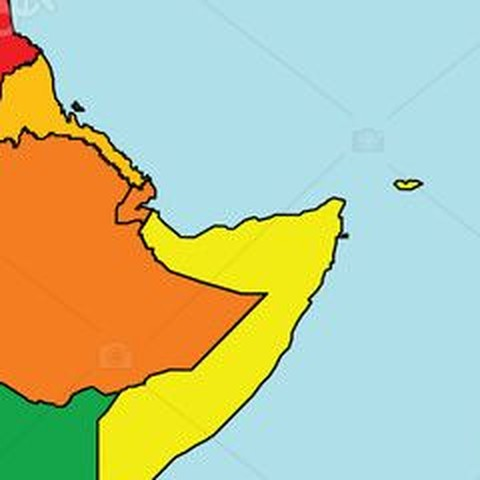
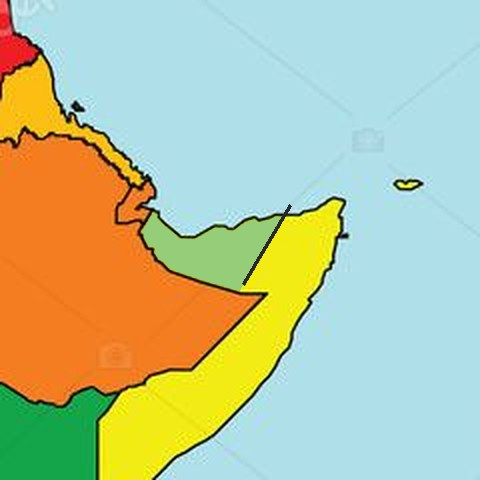
v2.1: trauma kit 10 named stations; Somaliland shaded with its own border (Captain 2026-10-13)
Stations: the Captain's five (injection drugs, wound care/bandage, plaster/splint,
oral tablets, normal saline IV bag) + tourniquet, haemostatic gauze, chest seal
(slide 38 list) + IV cannula & giving set (talk 1:03) + gloves & trauma shears.
Horn inset: Somaliland recoloured in the map crop, border line drawn; "7" along the coast.

Claude-Session: https://claude.ai/code/session_01BVrHPQ8u84GinArq4jj86T

Changed region(s): [[0.2812, 0.4375, 0.5938, 0.625]]

diff --git a/main.tex b/main.tex
@@ -164,18 +164,16 @@
 \begin{tikzpicture}
 \node[anchor=south west,inner sep=0,draw=gray!60] (h) at (0,0) {\includegraphics[width=4.6cm]{map_horn_crop.jpg}};
 \begin{scope}[x={(h.south east)},y={(h.north west)}]
-  \fill[blue!70,opacity=0.30] (0.31,0.533) -- (0.60,0.566) -- (0.553,0.385) -- (0.31,0.507) -- cycle;
-  \draw[red,line width=4pt,opacity=0.40,line cap=round,line join=round] (0.31,0.575) -- (0.70,0.595) -- (0.29,0.04);
-  \node[font=\fontsize{36}{36}\selectfont\bfseries,text=red,opacity=0.35] at (0.74,0.33) {7};
+  \draw[red,line width=3pt,opacity=0.35,line cap=round,line join=round] (0.31,0.53) -- (0.68,0.555) -- (0.60,0.375) -- (0.48,0.19) -- (0.37,0.02);
+  \node[font=\fontsize{36}{36}\selectfont\bfseries,text=red,opacity=0.35] at (0.82,0.33) {7};
   \draw[-{Stealth[length=2mm]},thick,blue!60!black] (0.55,0.49) -- (0.41,0.505);
   \fill[black] (0.371,0.49) circle (1.6pt);
   \node[font=\tiny\bfseries,anchor=north] at (0.371,0.475) {Hargeisa};
-  \node[pinlabel,text=blue!50!black] at (0.46,0.68) {Somaliland};
+  \node[pinlabel,text=green!35!black] at (0.46,0.68) {Somaliland};
   \node[pinlabel] at (0.42,0.18) {Somalia};
 \end{scope}
 \end{tikzpicture}\\[0.3em]
-{\scriptsize The ``L'' --- like a 7: Somaliland is the horizontal stroke, Somalia the vertical one.
-Arrow: IDPs moving west, away from the fighting in the east.}
+{\scriptsize The ``L'', like a 7: Somaliland (green) is the horizontal stroke, Somalia the vertical one. Arrow: IDPs moving west.}
 \end{columns}
 \vspace{0.3em}
 {\scriptsize\color{gray} São Tomé \& Príncipe: Taiwan's diplomatic ally until 2016. Eswatini: Taiwan's ally in Africa today.}
@@ -635,15 +633,19 @@ The maneuver rolls them back out.}
 % v2 2026-10-13 (P2): the packing line as the speaker told it (1:04:33) — 10 stations, one item each; no item names invented
 \begin{frame}{Trauma kits: a 10-station packing line 跑台式打包}
 \centering
-\begin{tikzpicture}[x=1.15cm]
-  \foreach \i in {1,...,10}{
-     \node[draw,rounded corners=2pt,fill=red!8,minimum width=0.95cm,minimum height=0.8cm,font=\scriptsize] (st\i) at (\i,0) {\textbf{\i}};
+\begin{tikzpicture}[x=2.45cm,y=1.55cm]
+  \foreach \i/\t [count=\k] in {1/tourniquet, 2/haemostatic\\gauze, 3/chest seal, 4/wound care\\\& bandages, 5/plaster \& splint\\(fractures),
+                                6/IV cannula \&\\giving set, 7/normal saline\\IV bag, 8/injection\\drugs, 9/oral tablets\\(painkiller \dots), 10/gloves \&\\trauma shears}{
+     \pgfmathtruncatemacro{\row}{\i>5 ? 1 : 0}\pgfmathtruncatemacro{\col}{\i>5 ? 10-\i : \i-1}
+     \node[draw,rounded corners=2pt,fill=red!8,text width=2.0cm,minimum height=0.95cm,align=center,font=\scriptsize,
+           execute at begin node={\hyphenpenalty=10000}] (st\i) at (\col,-\row) {\textbf{\i}~ \t};
   }
-  \foreach \i [evaluate=\i as \j using int(\i+1)] in {1,...,9} \draw[flowarrow] (st\i) -- (st\j);
-  \node[font=\scriptsize,align=center,anchor=east] at (0.4,0) {empty\\pack};
-  \node[font=\scriptsize,align=center,anchor=west] at (10.6,0) {full\\pack};
-  \node[font=\scriptsize] at (5.5,0.85) {one item added at each station --- walked like an OSCE circuit};
-\end{tikzpicture}\\[1.0em]
+  \foreach \i [evaluate=\i as \j using int(\i+1)] in {1,2,3,4,6,7,8,9} \draw[flowarrow] (st\i) -- (st\j);
+  \draw[flowarrow] (st5) -- (st6);
+  \node[font=\scriptsize,align=center,anchor=east] at ($(st1.west)+(-0.05,0)$) {empty\\pack};
+  \node[font=\scriptsize,align=center,anchor=east] at ($(st10.west)+(-0.05,0)$) {full\\pack};
+  \node[font=\scriptsize] at (2,0.72) {one item added at each station --- walked like an OSCE circuit};
+\end{tikzpicture}\\[0.6em]
 \begin{columns}[t]
 \column{0.45\textwidth}
 \textbf{300 medic backpacks}\\
